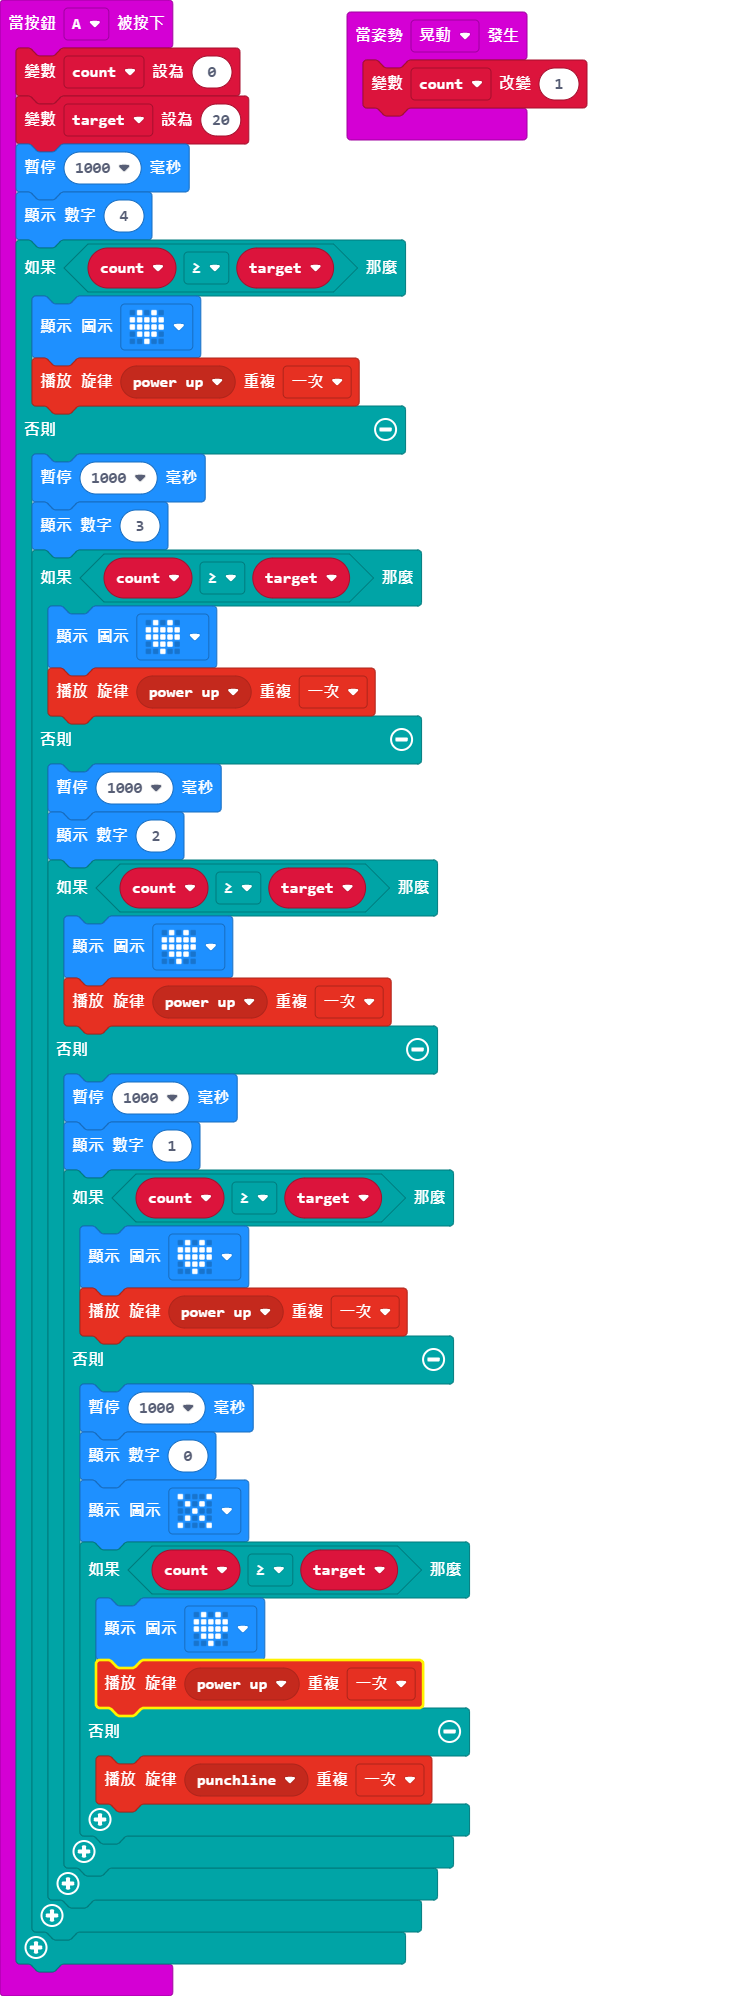
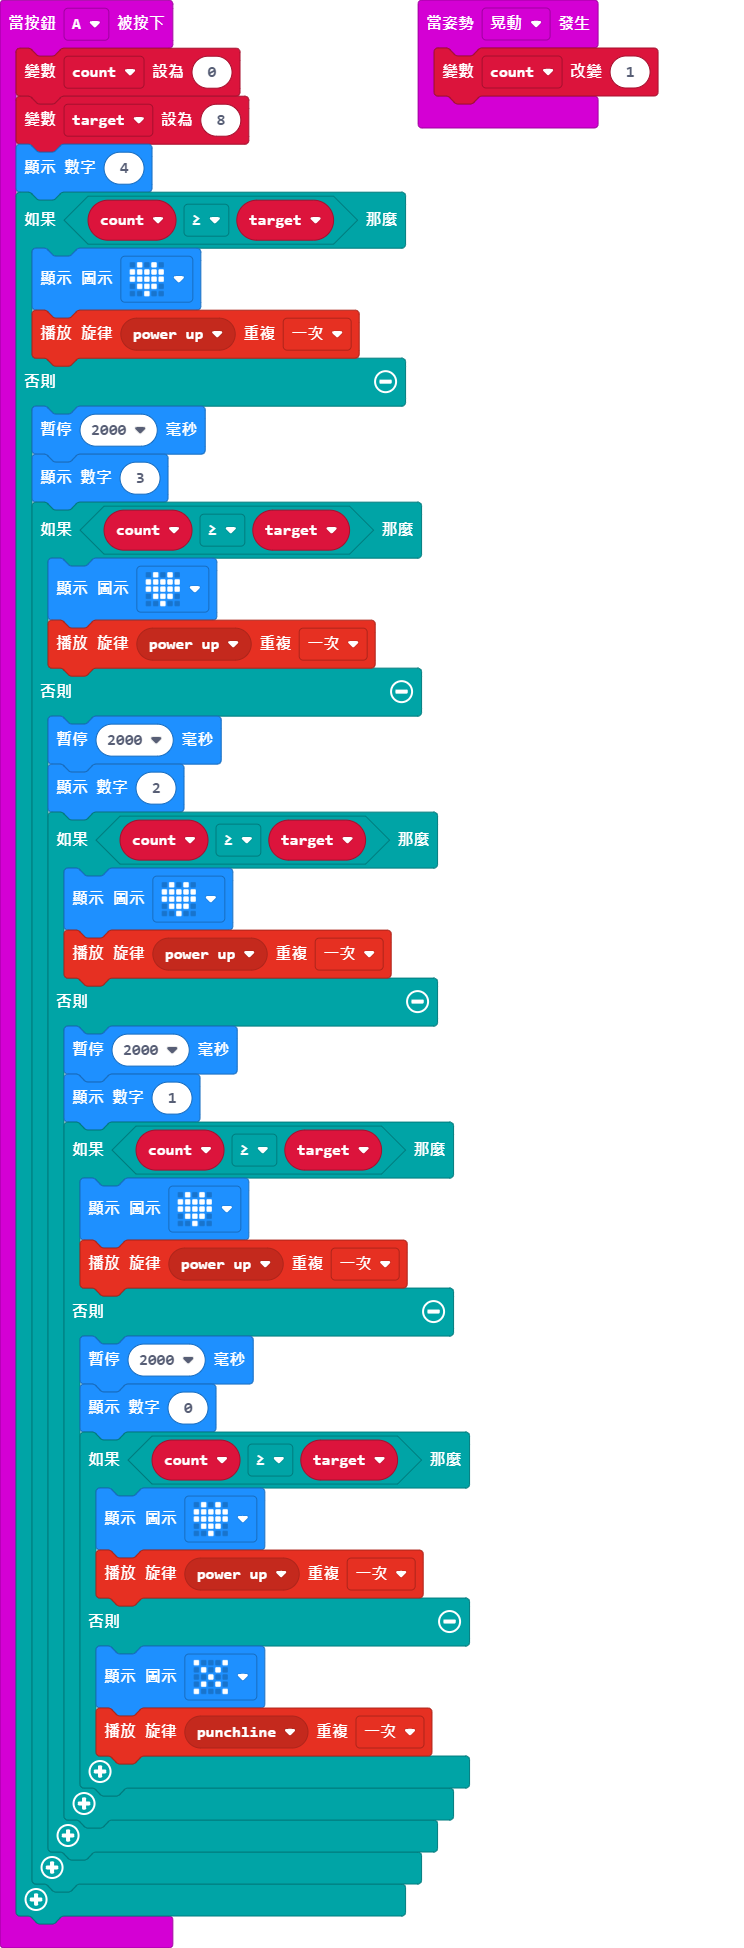
CHG the target number

Changed region(s): [[0.0, 0.0, 0.8965, 0.9856]]

diff --git a/main.ts b/main.ts
@@ -2,38 +2,37 @@ let count = 0
 let target = 0
 input.onButtonPressed(Button.A, function () {
     count = 0
-    target = 20
-    basic.pause(1000)
+    target = 8
     basic.showNumber(4)
     if (count >= target) {
         basic.showIcon(IconNames.Heart)
         music.startMelody(music.builtInMelody(Melodies.PowerUp), MelodyOptions.Once)
     } else {
-        basic.pause(1000)
+        basic.pause(2000)
         basic.showNumber(3)
         if (count >= target) {
             basic.showIcon(IconNames.Heart)
             music.startMelody(music.builtInMelody(Melodies.PowerUp), MelodyOptions.Once)
         } else {
-            basic.pause(1000)
+            basic.pause(2000)
             basic.showNumber(2)
             if (count >= target) {
                 basic.showIcon(IconNames.Heart)
                 music.startMelody(music.builtInMelody(Melodies.PowerUp), MelodyOptions.Once)
             } else {
-                basic.pause(1000)
+                basic.pause(2000)
                 basic.showNumber(1)
                 if (count >= target) {
                     basic.showIcon(IconNames.Heart)
                     music.startMelody(music.builtInMelody(Melodies.PowerUp), MelodyOptions.Once)
                 } else {
-                    basic.pause(1000)
+                    basic.pause(2000)
                     basic.showNumber(0)
-                    basic.showIcon(IconNames.No)
                     if (count >= target) {
                         basic.showIcon(IconNames.Heart)
                         music.startMelody(music.builtInMelody(Melodies.PowerUp), MelodyOptions.Once)
                     } else {
+                        basic.showIcon(IconNames.No)
                         music.startMelody(music.builtInMelody(Melodies.Punchline), MelodyOptions.Once)
                     }
                 }
